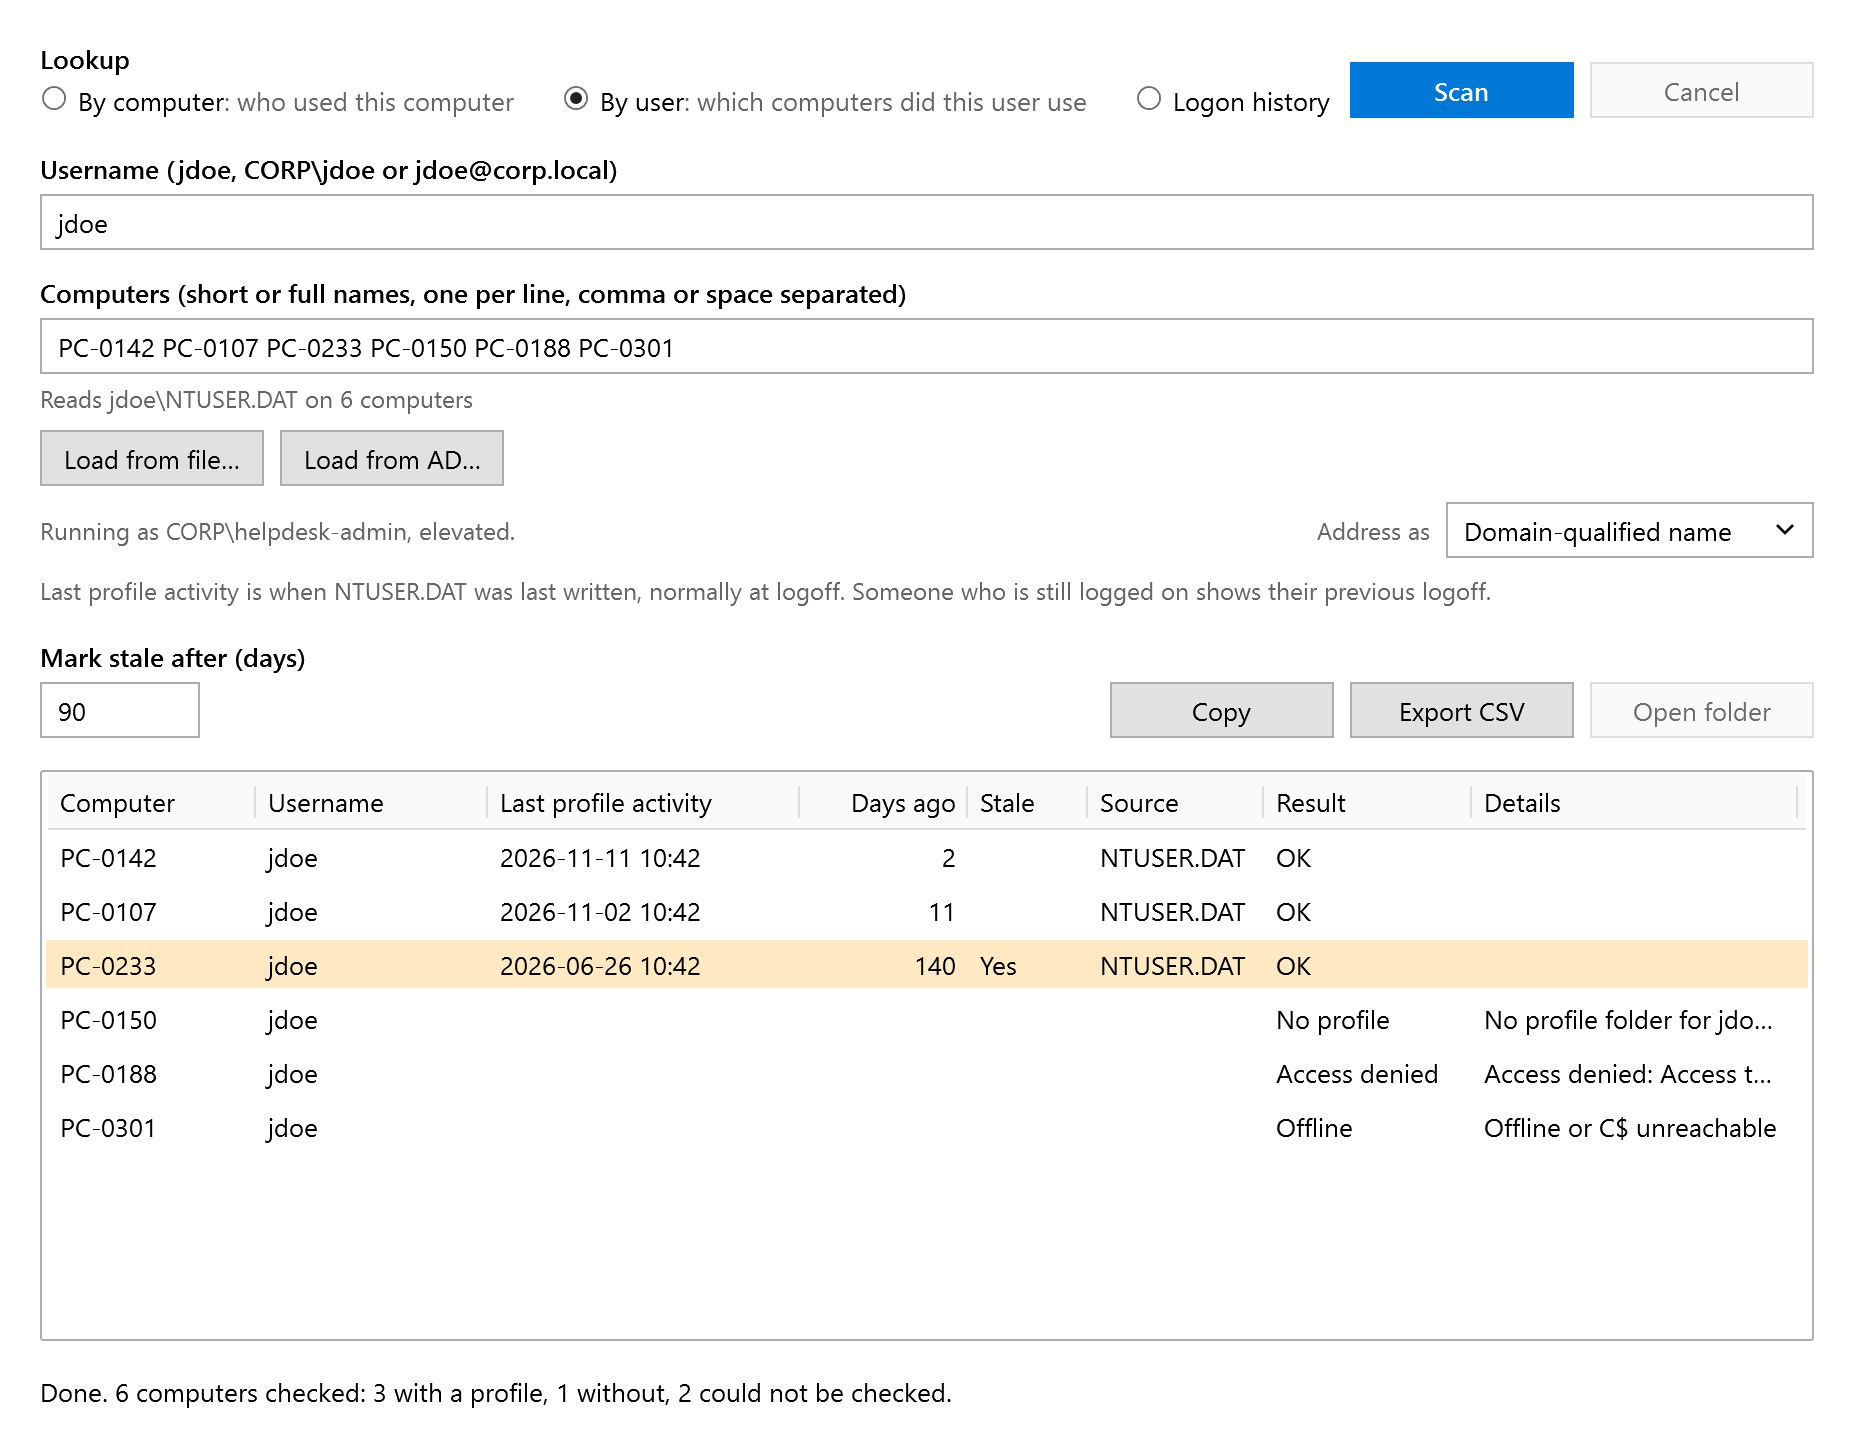
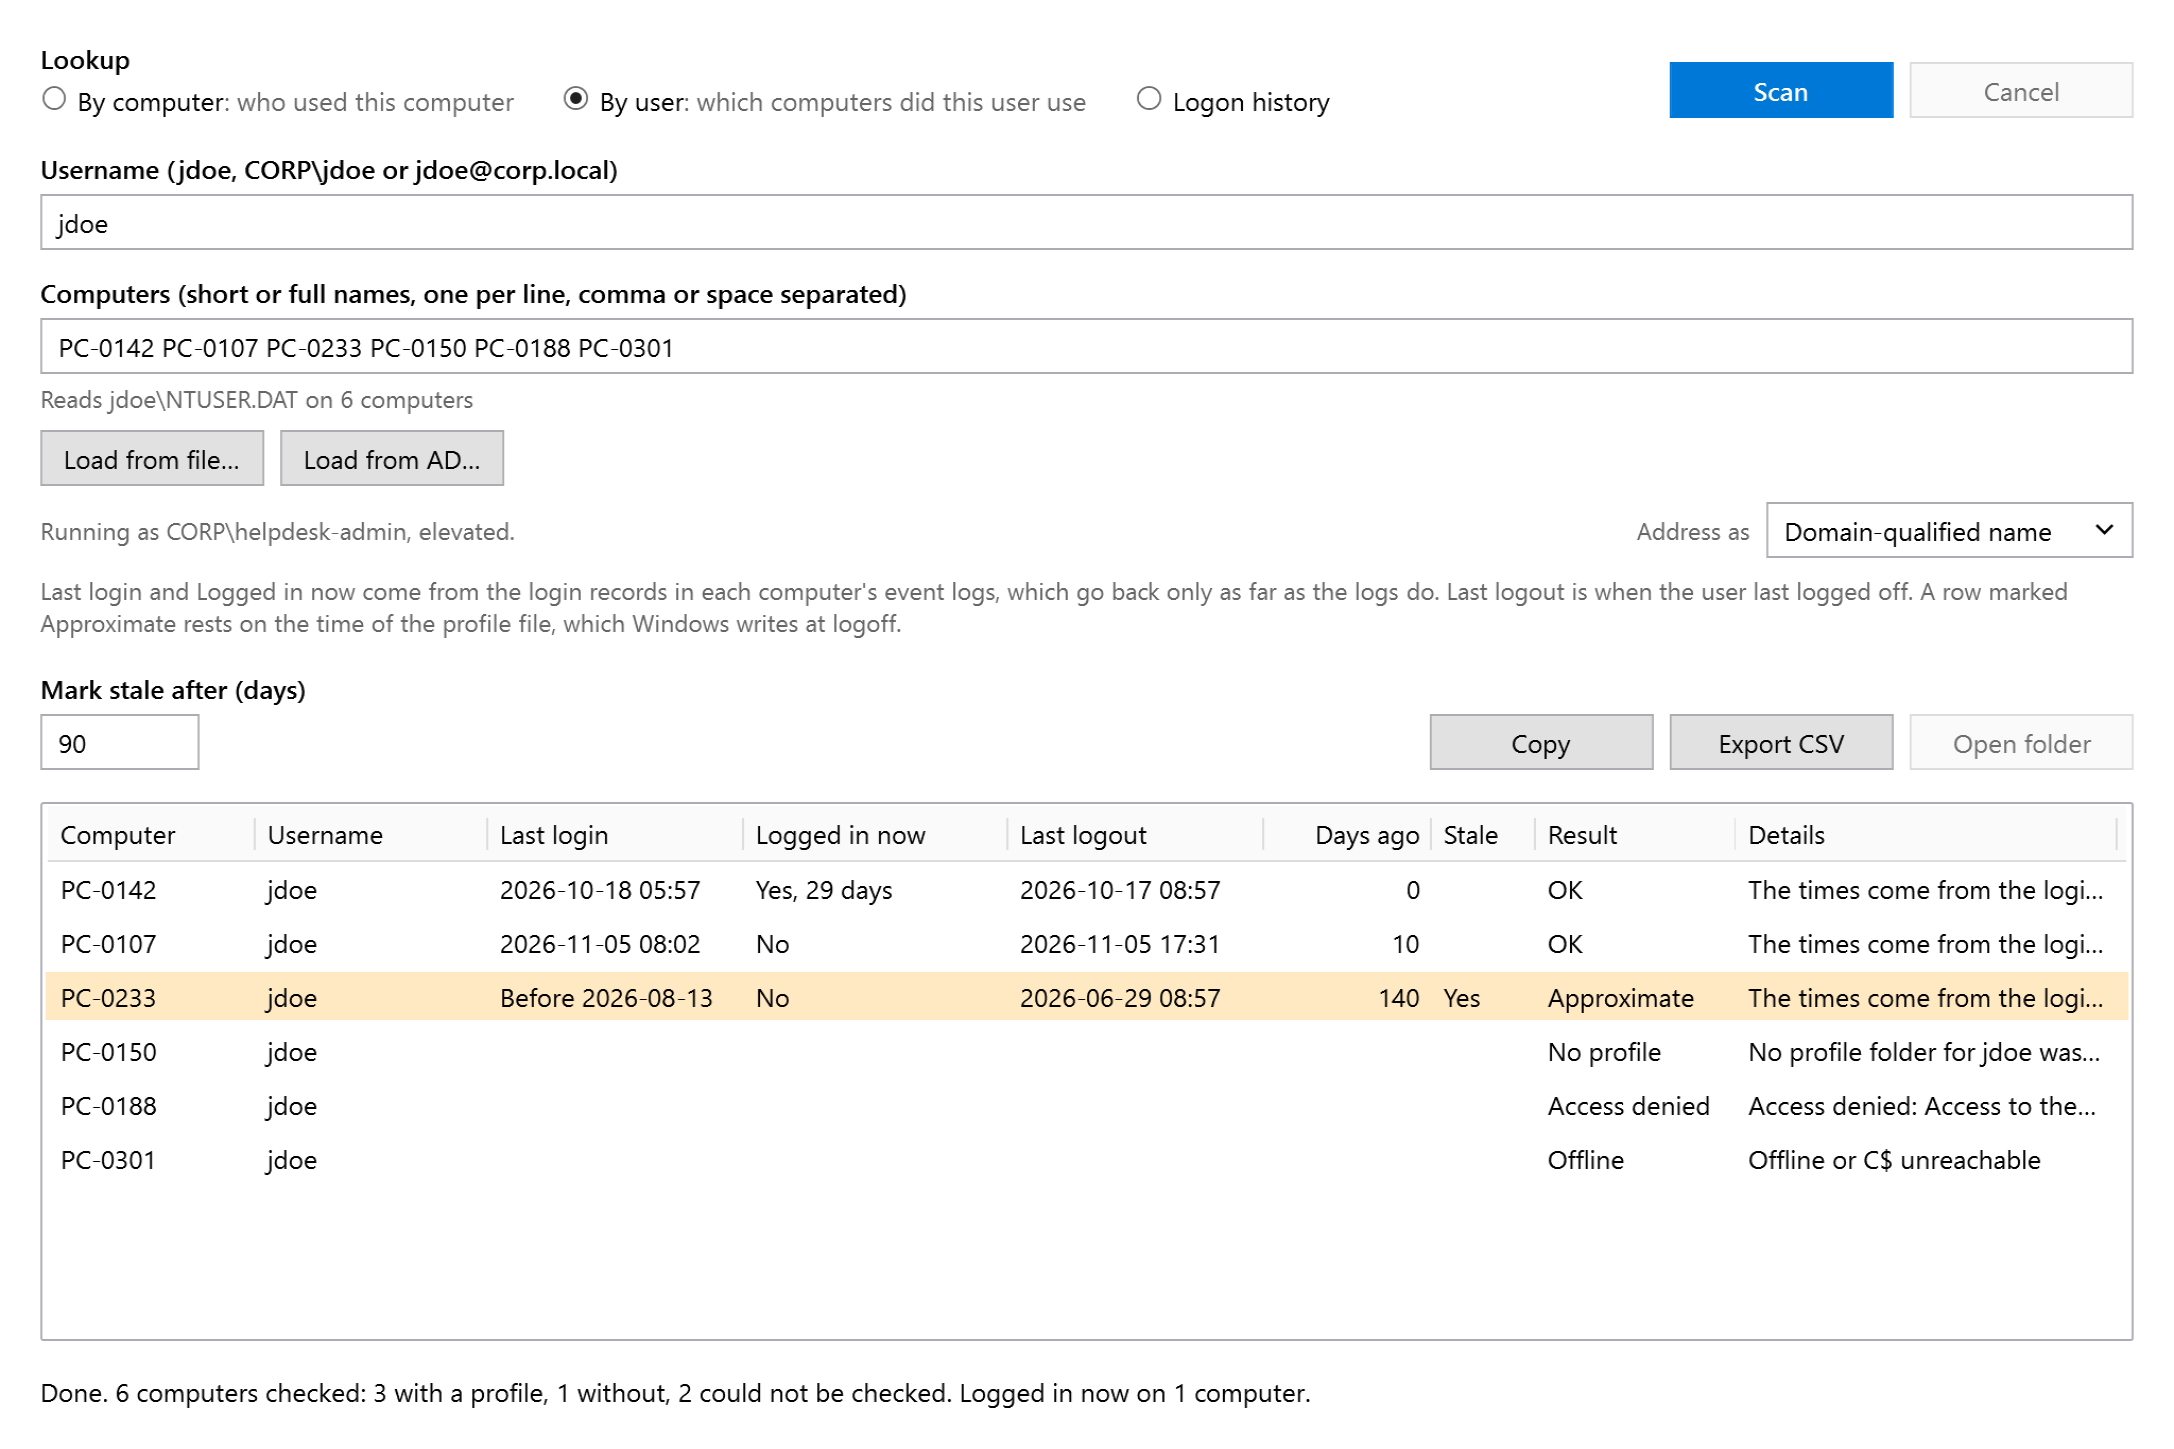
Document the login times and what Approximate means
The README says that the lookups now answer who is logged in and since when, where the times come from (the login and logout records in the System and User Profile Service event logs, which Windows writes without an audit policy), what Before a date and Approximate mean, that the Remote Event Log Management firewall rules are now needed for the login times too, and that the tool briefly opens each profile NTUSER.DAT for reading to see whether the user is logged in. The CHANGELOG lists the change under Unreleased. The sample screenshot is rendered again from the final window with made-up data, with a logged-in row, a stale Approximate row and the three failure rows.

diff --git a/README.md b/README.md
@@ -1,9 +1,10 @@
 # LastLogon
 
-A Windows tool for support staff. It answers two questions about remote computers:
+A Windows tool for support staff. It answers three questions about remote computers:
 
 - **Who used this computer, and when?**
 - **Which computers did this user use?**
+- **Who is logged in right now, and since when?**
 
 ![By user mode, with made-up data](docs/images/sample-by-user.png)
 
@@ -11,8 +12,8 @@ The screenshot uses made-up computer names, a made-up domain and a made-up user.
 
 ## Lookup modes
 
-- **By computer:** every user profile on a computer, with the time of its last profile activity, newest first.
-- **By user:** the computers from a list that have a profile for one user. Every computer checked gets a row: a profile found, no profile, or the reason it could not be checked. The status line gives the totals, for example `Done. 6 computers checked: 3 with a profile, 1 without, 2 could not be checked.`
+- **By computer:** every user profile on a computer, with the user's last login, whether the user is logged in now and since when, and the last logout. Users who are logged in come first, then the newest.
+- **By user:** the computers from a list that have a profile for one user, with the same facts for each. Every computer checked gets a row: a profile found, no profile, or the reason it could not be checked. The status line gives the totals and how many computers the user is logged in on, for example `Done. 6 computers checked: 3 with a profile, 1 without, 2 could not be checked. Logged in now on 1 computer.`
 - **Logon history:** logon, logoff, lock, unlock, failed-logon and special-logon events from the remote Security log. You can filter by account and logon type, select an event to see all its fields, and export to CSV.
 
 Access-denied rows also show the address each computer name resolves to. That separates a refused account from a name that reaches a different computer.
@@ -29,7 +30,8 @@ Working with the results:
 
 ## Read the results with care
 
-- **Last profile activity** is the time the user's `NTUSER.DAT` file was last written, which happens at logoff. For someone who is still logged on it shows the previous logoff, not the current time. Use **Logon history** for current activity.
+- **Last login** and **Logged in now** come from the login and logout records in each computer's System and User Profile Service event logs. Windows writes them without an audit policy, and keeps them only as far back as the logs go: `Before 2026-05-12` means no login since the logs begin on that date, and `Yes, over 185 days` means a user who has been logged in since before they begin. Whether a user is logged in is settled by whether Windows holds the profile open.
+- A row marked **Approximate** rests on the time of the profile file (`NTUSER.DAT`, which Windows writes at logoff) because the login records could not be used. Its Details say why: the logs could not be read, hold no login or logout record at all, or could not be matched to the profile folder. For someone who is still logged on, that time is the previous logoff, not the current time.
 - **A missing record is not proof** that a user never used a computer. Profiles get cleaned up, folders can carry a domain suffix, and event logs are overwritten.
 
 ## Requirements
@@ -37,7 +39,8 @@ Working with the results:
 - Windows 10 or 11, 64-bit.
 - The **.NET 10 Desktop Runtime** for the framework-dependent download. A computer that has only the .NET 8 runtime cannot start it. Microsoft supports .NET 10 until 14 November 2028. The self-contained build in [docs/publishing.md](docs/publishing.md) avoids needing the runtime.
 - Run the tool as an administrator. The account you use needs administrator rights on each target computer.
-- For **Logon history**, the target computers need the *Remote Event Log Management* firewall rules enabled, and logon auditing turned on.
+- For the login times in **By computer** and **By user**, the target computers need the *Remote Event Log Management* firewall rules enabled. No audit policy is needed. Without the rules both lookups still work and show what they showed before, with the rows marked Approximate and the reason in Details.
+- For **Logon history**, the same firewall rules, and logon auditing turned on.
 
 ## Download
 
@@ -67,7 +70,8 @@ The published file is written to `publish\win-x64\LastLogon.exe`. [docs/publishi
 
 ## Behaviour and limits
 
-- The tool only reads. It changes nothing on the computers it checks.
+- The tool only reads. It changes nothing on the computers it checks. To see whether a user is logged in it briefly opens that profile's `NTUSER.DAT` for reading and closes it again, and it reads the access list of each profile folder to match the login records to the folder. It does not do the first for a user whose records say they logged out.
+- The login records of a computer are read under a time limit of their own (10 seconds), and at most 20,000 records are read from each log.
 - It uses the Windows identity you run it under. It stores no credentials.
 - Each computer gets a time limit, and a scan returns at most 50,000 events per computer. A partial result is marked as such.
 

diff --git a/CHANGELOG.md b/CHANGELOG.md
@@ -2,6 +2,23 @@
 
 All notable changes to LastLogon are listed here. The format follows [Keep a Changelog](https://keepachangelog.com/en/1.1.0/), and versions follow [Semantic Versioning](https://semver.org/).
 
+## [Unreleased]
+
+### Added
+
+- **Last login**, **Logged in now** and **Last logout** columns in By computer and By user. They come from the login and logout records in each computer's System and User Profile Service event logs, which Windows writes without an audit policy. A user who is logged in shows for how long, is listed first, and is never marked stale.
+- A user with no login record shows "Before <date>", the date the computer's logs begin, instead of an old time from the profile file.
+- The CSV export and Copy have `LastLogin`, `LoggedInNow`, `LoggedInSince`, `LastLogout` and `RecordsBegin` columns after the old ones. `Source` can now be `LoginRecords`.
+- The status line says how many users are logged in now.
+
+### Changed
+
+- **Last profile activity** is now **Last logout**. For a user who is logged in it used to show the logout before the current session, which looked like their last activity.
+- A row that rests on the time of the profile file, because the login records could not be used, says **Approximate** and gives the reason.
+- By computer and By user need the *Remote Event Log Management* firewall rules on the target computers to show login times. Without them the lookups work as before and say why.
+- To tell who is logged in, the tool briefly opens each profile's `NTUSER.DAT` for reading and reads the access list of each profile folder. It still changes nothing, and it does not open the file of a user whose records say they logged out.
+- The table has no Source column; the Details column says what a row rests on. The window opens wider.
+
 ## [1.1.0] - 2026-11-13
 
 ### Fixed
